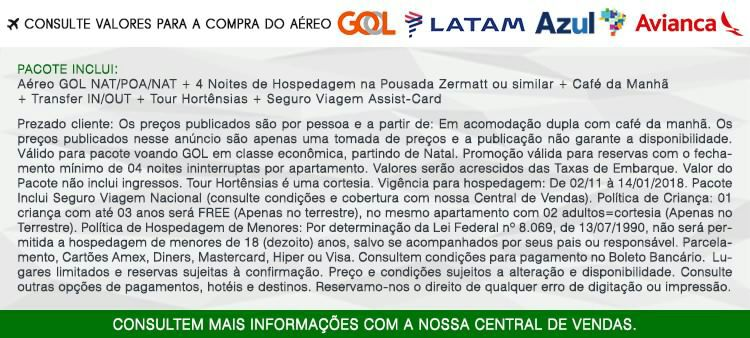
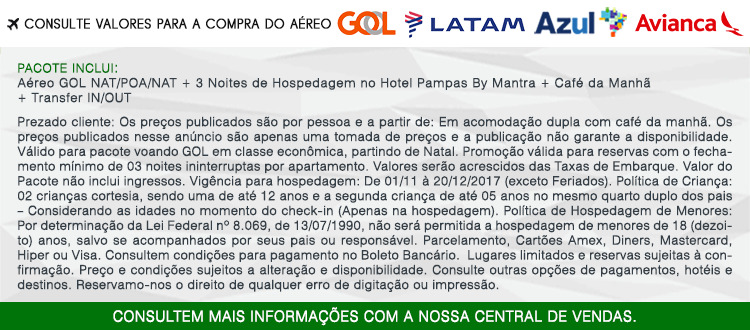
Altera viagem natal-luz 2017

diff --git a/natal-luz-2017.html b/natal-luz-2017.html
@@ -130,8 +130,8 @@
             <div style="padding-bottom:20px; background-color: white;" class="col-xs-12 col-sm-12 col-md-7 col-lg-7">
                  <h1 class="tit"><span id="viagem">Natal Luz em Gramado</span></h1>
                  <hr>
-                 <h3>PERÍODO:</h3>
-                 <p>02/11 a 14/01/2018</p>
+                 <h3>VIGÊNCIA PARA HOSPEDAGEM:</h3>
+                 <p>01/11 a 20/12/2017</p>
                  <h3>PROGRAMAÇÃO:</h3>
                  <p>A confirmar</p>
                  <p>
@@ -141,21 +141,19 @@
                  <h3>PACOTE INCLUI:</h3>
                  <p>
                  Passagem aérea<br>
-                 4 noites de hospedagem em apartamento duplo na pousada Zermatt ou similar<br>
+                 3 noites de hospedagem no Hotel Pampas By Mantra<br>
                  Regime: Café da manhã<br>
                  Transferência IN/OUT<br />
-                 Tour Hortênsias<br />
-                 Seguro Viagem Assist-card<br />
                  <b>Obs:</b> Para mais informações leia a imagem em anexo ou entre em contato conosco<br>
                  </p>
                  <hr>
                  <h1 class="tit">Pagamento</h1>
                  <hr>
-                 <h3>Parcelado em até 12x</h3>
-                 <h2 style="color: rgb(30, 60, 108)">R$ 213,00</h2>
-                 <h6>Valor do pacote por pessoa R$ 2.556,00</h6>
+                 <h3>Parcelado em até 10x</h3>
+                 <h2 style="color: rgb(30, 60, 108)">R$ 192,00</h2>
+                 <h6>Valor do pacote por pessoa R$ 1.920,00</h6>
                  <h3>Pagamento À VISTA</h3>
-                 <h2 style="color: rgb(30, 60, 108)">R$ 2.172,00</h2>
+                 <h2 style="color: rgb(30, 60, 108)">R$ 1.721,00</h2>
                  <h6>Valor do pacote por pessoa</h6>
                  <hr>
                  <h1 class="tit">Contatos</h1>
@@ -228,11 +226,12 @@
             <div class="row">
                 <div class="col-md-5">
                     <ul class="list-inline quicklinks">
+                      <li>CNPJ 25.989.749/0001-34</li>
                         <li>Jungle Turismo 2016
                         </li><br>
-                        <li>CNPJ 25.989.749/0001-34</li>
                     </ul>
                 </div>
+              </div>
                 <div class="col-md-1">
                     <ul class="list-inline social-buttons">
                         <li><a target="blank" href="http://facebook.com/jungleturismo"><i class="fa fa-facebook"></i></a>
@@ -247,7 +246,6 @@
                         <li>Rua Alameda do 5° Centenário do Brasil - Centro, Ceará-Mirim - RN</li>
                     </ul>
                 </div>
-            </div>
         </div>
     </footer>
 
